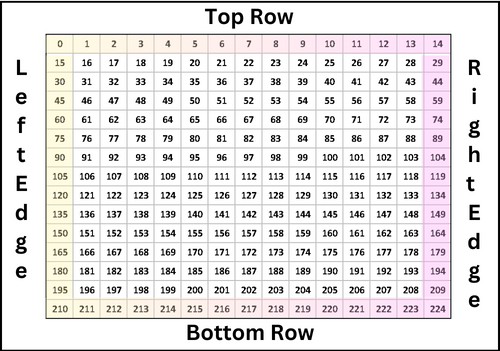
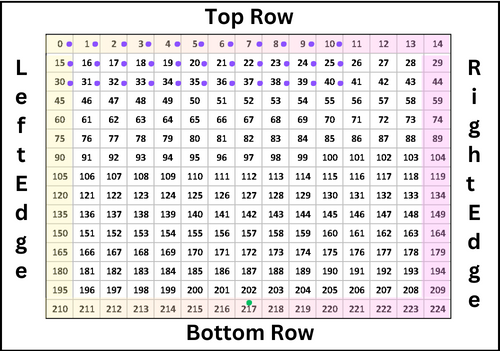
final commit

diff --git a/README.md b/README.md
@@ -30,7 +30,7 @@ A simple prototype of the game that I created before writing any code. My initia
 
 All the magic happens here on the board. It controls the movement of the aliens, player and the missiles. It contains a total of 225 squares divs (15 accross and 15 down).
 
-The aliens start from the top and the player is at the bottom row.
+Purple dots are the alien invaders and the green dot at the bottom row is the player.
 
 ![Gameboard](./misc/gameboard.png)
 
